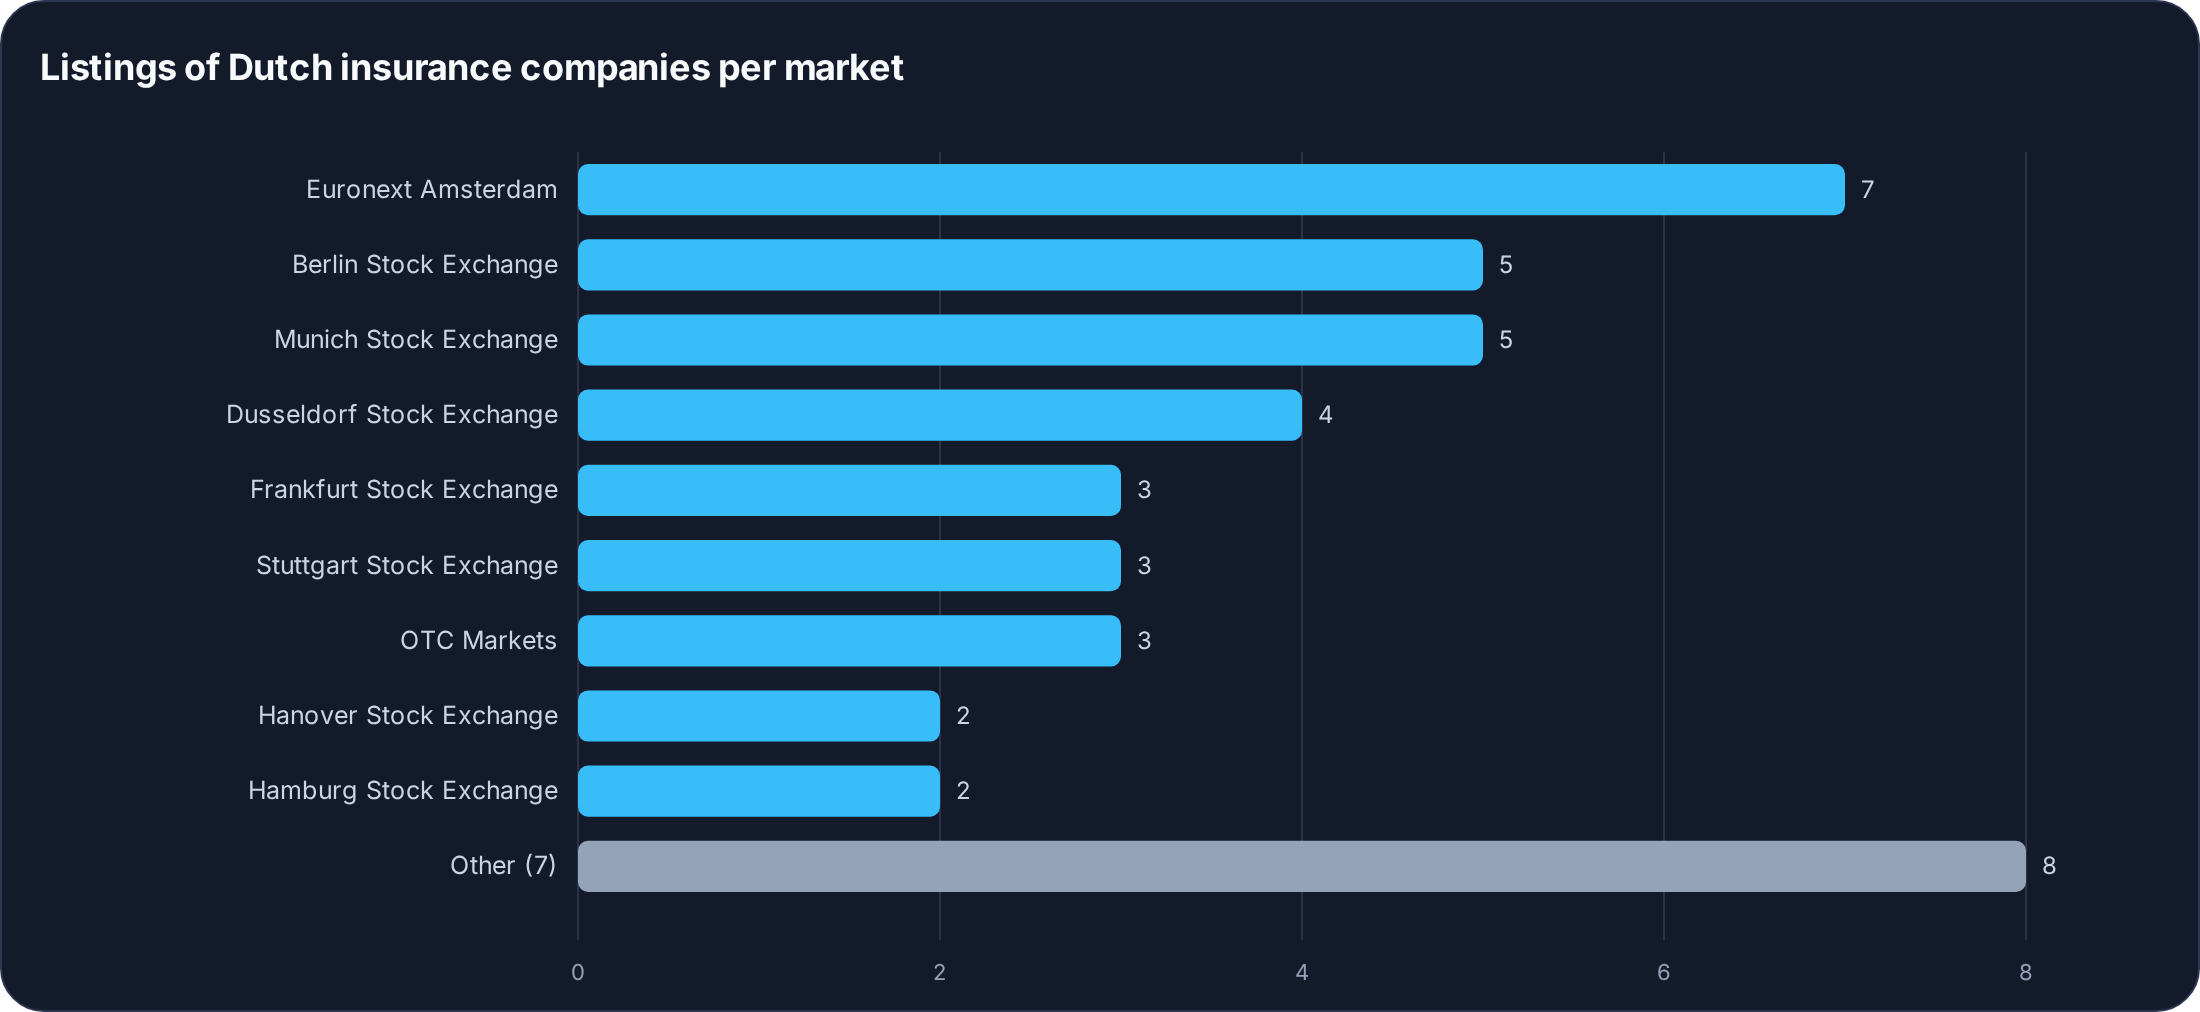
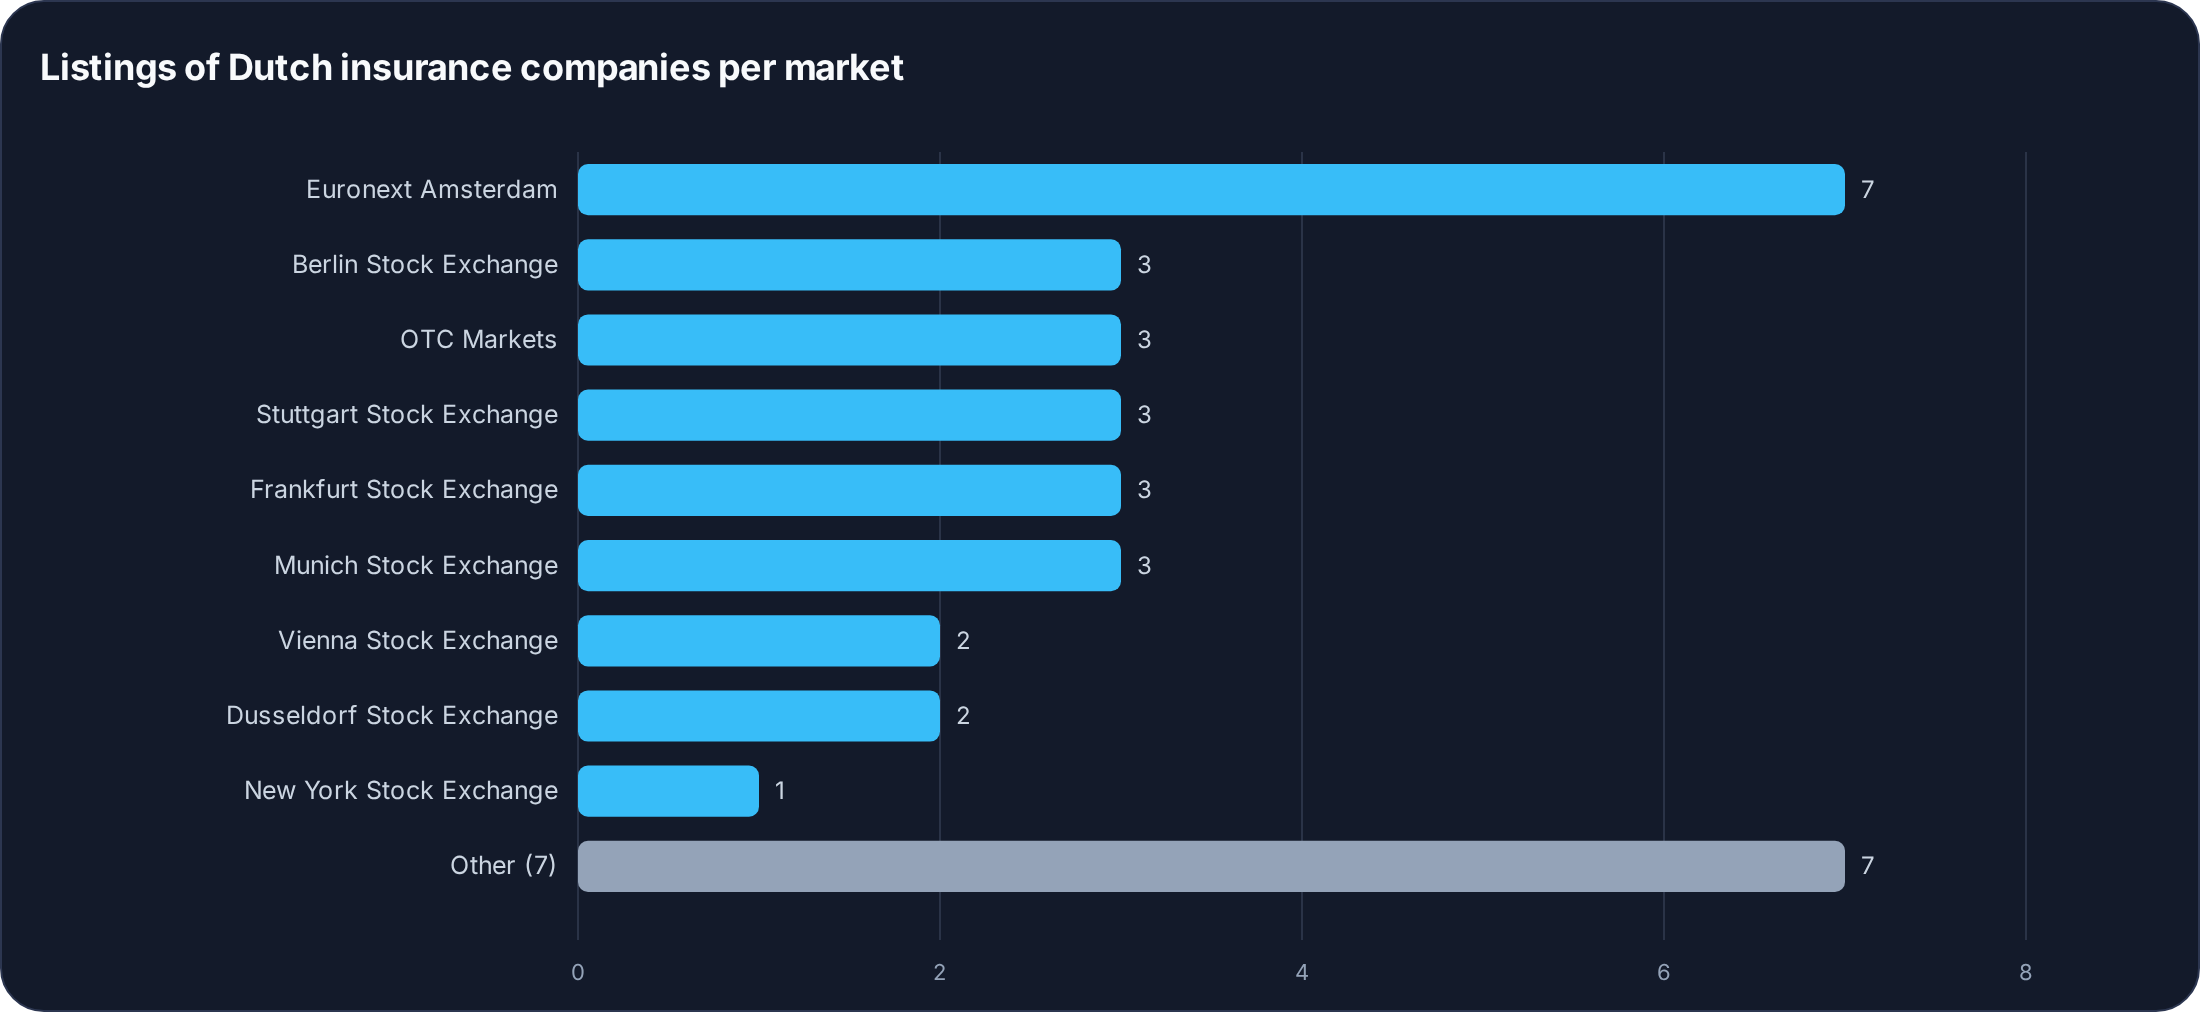
Count companies once in the README chart and fix ING and Inogen data (#189)
* Classify ING Groep's German listings as Banks and fix Inogen's Frankfurt FIGIs

Eight Berlin, Dusseldorf, Hamburg, Hanover and Munich listings of ING
Groep were under Insurance while its other 14 listings are under Banks.
6IO.F (Inogen) carried the FIGIs of ING's Frankfurt ADR listing (INNA.F);
they are replaced by Inogen's own Frankfurt FIGIs from OpenFIGI.

* Count each Dutch financial company once in the README chart

Listings of the same company under different names (e.g. ABN AMRO's
German and Amsterdam listings) were counted as separate companies. They
are now combined when they share an ISIN, share class FIGI, website or
leading name word. The insurance listing count and chart follow the ING
reclassification.

diff --git a/README.md b/README.md
@@ -163,7 +163,7 @@ Which returns:
  'Diversified Financial Services', 'Insurance']
 ```
 
-And below the number of companies in each of these industries is shown.
+And below the number of companies in each of these industries is shown. Each company is counted once, however many exchanges it is listed on: listings that share an ISIN, share class FIGI, website or the first word of their name (such as Aegon and its perpetual bonds) are combined.
 
 <picture>
   <source media="(prefers-color-scheme: dark)" srcset="https://raw.githubusercontent.com/JerBouma/FinanceDatabase/main/assets/readme/options-dark.png">
@@ -184,7 +184,7 @@ equities.select(
 )
 ```
 
-This returns 42 listings, of which the first five are shown below.
+This returns 34 listings, of which the first five are shown below.
 
 | symbol   | name               | currency   | sector     | industry   | exchange   | market                              | country     | market_cap   | isin         |
 |:---------|:-------------------|:-----------|:-----------|:-----------|:-----------|:------------------------------------|:------------|:-------------|:-------------|
